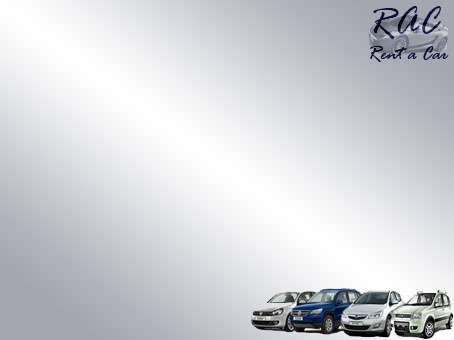
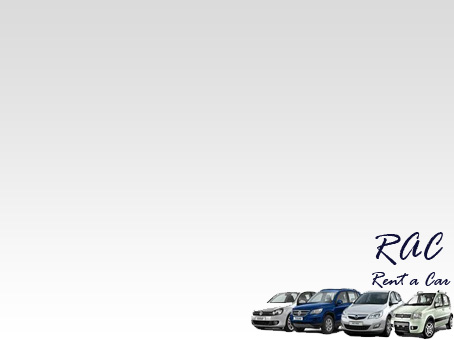
cambios varios

diff --git a/AlquilerCoches/AlquilerCoches/GestionClientes.Designer.cs b/AlquilerCoches/AlquilerCoches/GestionClientes.Designer.cs
@@ -62,7 +62,7 @@
             // 
             this.pictureBox1.BackgroundImage = global::AlquilerCoches.Properties.Resources.Desconocido;
             this.pictureBox1.BackgroundImageLayout = System.Windows.Forms.ImageLayout.Stretch;
-            this.pictureBox1.Location = new System.Drawing.Point(444, 12);
+            this.pictureBox1.Location = new System.Drawing.Point(591, 12);
             this.pictureBox1.Name = "pictureBox1";
             this.pictureBox1.Size = new System.Drawing.Size(89, 110);
             this.pictureBox1.TabIndex = 45;
@@ -70,7 +70,7 @@
             // 
             // TGroupBoxCliente
             // 
-            this.TGroupBoxCliente.BackColor = System.Drawing.SystemColors.Control;
+            this.TGroupBoxCliente.BackColor = System.Drawing.SystemColors.ControlLight;
             this.TGroupBoxCliente.Controls.Add(this.TLabelVehiculosAlquiler);
             this.TGroupBoxCliente.Controls.Add(this.listBoxCoches);
             this.TGroupBoxCliente.Controls.Add(this.TLabelSexo);
@@ -94,7 +94,7 @@
             this.TGroupBoxCliente.Controls.Add(this.TLabelDNI);
             this.TGroupBoxCliente.Location = new System.Drawing.Point(12, 12);
             this.TGroupBoxCliente.Name = "TGroupBoxCliente";
-            this.TGroupBoxCliente.Size = new System.Drawing.Size(341, 390);
+            this.TGroupBoxCliente.Size = new System.Drawing.Size(524, 297);
             this.TGroupBoxCliente.TabIndex = 46;
             this.TGroupBoxCliente.TabStop = false;
             this.TGroupBoxCliente.Text = "Datos Cliente";
@@ -102,7 +102,7 @@
             // TLabelVehiculosAlquiler
             // 
             this.TLabelVehiculosAlquiler.AutoSize = true;
-            this.TLabelVehiculosAlquiler.Location = new System.Drawing.Point(11, 263);
+            this.TLabelVehiculosAlquiler.Location = new System.Drawing.Point(230, 50);
             this.TLabelVehiculosAlquiler.Name = "TLabelVehiculosAlquiler";
             this.TLabelVehiculosAlquiler.Size = new System.Drawing.Size(104, 13);
             this.TLabelVehiculosAlquiler.TabIndex = 64;
@@ -112,7 +112,7 @@
             // listBoxCoches
             // 
             this.listBoxCoches.FormattingEnabled = true;
-            this.listBoxCoches.Location = new System.Drawing.Point(136, 263);
+            this.listBoxCoches.Location = new System.Drawing.Point(340, 47);
             this.listBoxCoches.Name = "listBoxCoches";
             this.listBoxCoches.Size = new System.Drawing.Size(158, 121);
             this.listBoxCoches.TabIndex = 49;
@@ -120,7 +120,7 @@
             // TLabelSexo
             // 
             this.TLabelSexo.AutoSize = true;
-            this.TLabelSexo.Location = new System.Drawing.Point(37, 228);
+            this.TLabelSexo.Location = new System.Drawing.Point(37, 242);
             this.TLabelSexo.Name = "TLabelSexo";
             this.TLabelSexo.Size = new System.Drawing.Size(31, 13);
             this.TLabelSexo.TabIndex = 63;
@@ -129,7 +129,7 @@
             // TRadioButtonM
             // 
             this.TRadioButtonM.AutoSize = true;
-            this.TRadioButtonM.Location = new System.Drawing.Point(136, 224);
+            this.TRadioButtonM.Location = new System.Drawing.Point(136, 238);
             this.TRadioButtonM.Name = "TRadioButtonM";
             this.TRadioButtonM.Size = new System.Drawing.Size(34, 17);
             this.TRadioButtonM.TabIndex = 62;
@@ -140,7 +140,7 @@
             // TRadioButtonH
             // 
             this.TRadioButtonH.AutoSize = true;
-            this.TRadioButtonH.Location = new System.Drawing.Point(87, 224);
+            this.TRadioButtonH.Location = new System.Drawing.Point(87, 238);
             this.TRadioButtonH.Name = "TRadioButtonH";
             this.TRadioButtonH.Size = new System.Drawing.Size(33, 17);
             this.TRadioButtonH.TabIndex = 61;
@@ -150,7 +150,7 @@
             // 
             // TTextBoxDireccion
             // 
-            this.TTextBoxDireccion.Location = new System.Drawing.Point(87, 144);
+            this.TTextBoxDireccion.Location = new System.Drawing.Point(87, 158);
             this.TTextBoxDireccion.Name = "TTextBoxDireccion";
             this.TTextBoxDireccion.Size = new System.Drawing.Size(108, 20);
             this.TTextBoxDireccion.TabIndex = 60;
@@ -158,7 +158,7 @@
             // TLabelDireccion
             // 
             this.TLabelDireccion.AutoSize = true;
-            this.TLabelDireccion.Location = new System.Drawing.Point(20, 151);
+            this.TLabelDireccion.Location = new System.Drawing.Point(20, 165);
             this.TLabelDireccion.Name = "TLabelDireccion";
             this.TLabelDireccion.Size = new System.Drawing.Size(52, 13);
             this.TLabelDireccion.TabIndex = 59;
@@ -166,7 +166,7 @@
             // 
             // TTextBoxEmail
             // 
-            this.TTextBoxEmail.Location = new System.Drawing.Point(87, 123);
+            this.TTextBoxEmail.Location = new System.Drawing.Point(87, 137);
             this.TTextBoxEmail.Name = "TTextBoxEmail";
             this.TTextBoxEmail.Size = new System.Drawing.Size(108, 20);
             this.TTextBoxEmail.TabIndex = 58;
@@ -174,7 +174,7 @@
             // TLabelEmail
             // 
             this.TLabelEmail.AutoSize = true;
-            this.TLabelEmail.Location = new System.Drawing.Point(37, 130);
+            this.TLabelEmail.Location = new System.Drawing.Point(37, 144);
             this.TLabelEmail.Name = "TLabelEmail";
             this.TLabelEmail.Size = new System.Drawing.Size(32, 13);
             this.TLabelEmail.TabIndex = 57;
@@ -182,42 +182,42 @@
             // 
             // TTextBoxProvincia
             // 
-            this.TTextBoxProvincia.Location = new System.Drawing.Point(87, 188);
+            this.TTextBoxProvincia.Location = new System.Drawing.Point(87, 202);
             this.TTextBoxProvincia.Name = "TTextBoxProvincia";
             this.TTextBoxProvincia.Size = new System.Drawing.Size(108, 20);
             this.TTextBoxProvincia.TabIndex = 56;
             // 
             // TTextBoxCiudad
             // 
-            this.TTextBoxCiudad.Location = new System.Drawing.Point(87, 166);
+            this.TTextBoxCiudad.Location = new System.Drawing.Point(87, 180);
             this.TTextBoxCiudad.Name = "TTextBoxCiudad";
             this.TTextBoxCiudad.Size = new System.Drawing.Size(108, 20);
             this.TTextBoxCiudad.TabIndex = 55;
             // 
             // TTextBoxTelefono
             // 
-            this.TTextBoxTelefono.Location = new System.Drawing.Point(87, 100);
+            this.TTextBoxTelefono.Location = new System.Drawing.Point(87, 114);
             this.TTextBoxTelefono.Name = "TTextBoxTelefono";
             this.TTextBoxTelefono.Size = new System.Drawing.Size(108, 20);
             this.TTextBoxTelefono.TabIndex = 54;
             // 
             // TTextBoxApellidos
             // 
-            this.TTextBoxApellidos.Location = new System.Drawing.Point(87, 78);
+            this.TTextBoxApellidos.Location = new System.Drawing.Point(87, 92);
             this.TTextBoxApellidos.Name = "TTextBoxApellidos";
             this.TTextBoxApellidos.Size = new System.Drawing.Size(108, 20);
             this.TTextBoxApellidos.TabIndex = 53;
             // 
             // TTextBoxNombre
             // 
-            this.TTextBoxNombre.Location = new System.Drawing.Point(87, 56);
+            this.TTextBoxNombre.Location = new System.Drawing.Point(87, 70);
             this.TTextBoxNombre.Name = "TTextBoxNombre";
             this.TTextBoxNombre.Size = new System.Drawing.Size(70, 20);
             this.TTextBoxNombre.TabIndex = 52;
             // 
             // TTextBoxDNI
             // 
-            this.TTextBoxDNI.Location = new System.Drawing.Point(87, 33);
+            this.TTextBoxDNI.Location = new System.Drawing.Point(87, 47);
             this.TTextBoxDNI.Name = "TTextBoxDNI";
             this.TTextBoxDNI.Size = new System.Drawing.Size(70, 20);
             this.TTextBoxDNI.TabIndex = 51;
@@ -225,7 +225,7 @@
             // TLabelProvincia
             // 
             this.TLabelProvincia.AutoSize = true;
-            this.TLabelProvincia.Location = new System.Drawing.Point(20, 195);
+            this.TLabelProvincia.Location = new System.Drawing.Point(20, 209);
             this.TLabelProvincia.Name = "TLabelProvincia";
             this.TLabelProvincia.Size = new System.Drawing.Size(51, 13);
             this.TLabelProvincia.TabIndex = 50;
@@ -234,7 +234,7 @@
             // TLabelCiudad
             // 
             this.TLabelCiudad.AutoSize = true;
-            this.TLabelCiudad.Location = new System.Drawing.Point(29, 173);
+            this.TLabelCiudad.Location = new System.Drawing.Point(29, 187);
             this.TLabelCiudad.Name = "TLabelCiudad";
             this.TLabelCiudad.Size = new System.Drawing.Size(40, 13);
             this.TLabelCiudad.TabIndex = 49;
@@ -243,7 +243,7 @@
             // TLabelTelefono1
             // 
             this.TLabelTelefono1.AutoSize = true;
-            this.TLabelTelefono1.Location = new System.Drawing.Point(11, 107);
+            this.TLabelTelefono1.Location = new System.Drawing.Point(11, 121);
             this.TLabelTelefono1.Name = "TLabelTelefono1";
             this.TLabelTelefono1.Size = new System.Drawing.Size(58, 13);
             this.TLabelTelefono1.TabIndex = 48;
@@ -252,7 +252,7 @@
             // TLabelApellidos
             // 
             this.TLabelApellidos.AutoSize = true;
-            this.TLabelApellidos.Location = new System.Drawing.Point(20, 85);
+            this.TLabelApellidos.Location = new System.Drawing.Point(20, 99);
             this.TLabelApellidos.Name = "TLabelApellidos";
             this.TLabelApellidos.Size = new System.Drawing.Size(49, 13);
             this.TLabelApellidos.TabIndex = 47;
@@ -261,7 +261,7 @@
             // TLabelNombre
             // 
             this.TLabelNombre.AutoSize = true;
-            this.TLabelNombre.Location = new System.Drawing.Point(25, 63);
+            this.TLabelNombre.Location = new System.Drawing.Point(25, 77);
             this.TLabelNombre.Name = "TLabelNombre";
             this.TLabelNombre.Size = new System.Drawing.Size(44, 13);
             this.TLabelNombre.TabIndex = 46;
@@ -270,7 +270,7 @@
             // TLabelDNI
             // 
             this.TLabelDNI.AutoSize = true;
-            this.TLabelDNI.Location = new System.Drawing.Point(43, 40);
+            this.TLabelDNI.Location = new System.Drawing.Point(43, 54);
             this.TLabelDNI.Name = "TLabelDNI";
             this.TLabelDNI.Size = new System.Drawing.Size(26, 13);
             this.TLabelDNI.TabIndex = 45;
@@ -278,7 +278,7 @@
             // 
             // TButtonFoto
             // 
-            this.TButtonFoto.Location = new System.Drawing.Point(459, 128);
+            this.TButtonFoto.Location = new System.Drawing.Point(606, 128);
             this.TButtonFoto.Name = "TButtonFoto";
             this.TButtonFoto.Size = new System.Drawing.Size(56, 23);
             this.TButtonFoto.TabIndex = 47;
@@ -288,7 +288,7 @@
             // 
             // TButtonAceptar
             // 
-            this.TButtonAceptar.Location = new System.Drawing.Point(440, 349);
+            this.TButtonAceptar.Location = new System.Drawing.Point(18, 353);
             this.TButtonAceptar.Name = "TButtonAceptar";
             this.TButtonAceptar.Size = new System.Drawing.Size(75, 23);
             this.TButtonAceptar.TabIndex = 48;
@@ -297,7 +297,7 @@
             // 
             // TButtonBuscar
             // 
-            this.TButtonBuscar.Location = new System.Drawing.Point(521, 349);
+            this.TButtonBuscar.Location = new System.Drawing.Point(99, 353);
             this.TButtonBuscar.Name = "TButtonBuscar";
             this.TButtonBuscar.Size = new System.Drawing.Size(75, 23);
             this.TButtonBuscar.TabIndex = 49;

diff --git a/AlquilerCoches/AlquilerCoches/GestionPersonal.Designer.cs b/AlquilerCoches/AlquilerCoches/GestionPersonal.Designer.cs
@@ -42,7 +42,6 @@
             this.TTextBoxCiudad = new System.Windows.Forms.TextBox();
             this.TTextBoxProvincia = new System.Windows.Forms.TextBox();
             this.TTextBoxPuestoAc = new System.Windows.Forms.TextBox();
-            this.button1 = new System.Windows.Forms.Button();
             this.button2 = new System.Windows.Forms.Button();
             this.richTextBox1 = new System.Windows.Forms.RichTextBox();
             this.TLabelOtrosPuestos = new System.Windows.Forms.Label();
@@ -53,6 +52,7 @@
             this.TLabelEmail = new System.Windows.Forms.Label();
             this.textBox2 = new System.Windows.Forms.TextBox();
             this.TLabelDireccion = new System.Windows.Forms.Label();
+            this.button1 = new System.Windows.Forms.Button();
             ((System.ComponentModel.ISupportInitialize)(this.pictureBox1)).BeginInit();
             this.SuspendLayout();
             // 
@@ -171,18 +171,9 @@
             this.TTextBoxPuestoAc.Size = new System.Drawing.Size(108, 20);
             this.TTextBoxPuestoAc.TabIndex = 14;
             // 
-            // button1
-            // 
-            this.button1.Location = new System.Drawing.Point(404, 331);
-            this.button1.Name = "button1";
-            this.button1.Size = new System.Drawing.Size(84, 25);
-            this.button1.TabIndex = 15;
-            this.button1.Text = "Horarios";
-            this.button1.UseVisualStyleBackColor = true;
-            // 
             // button2
             // 
-            this.button2.Location = new System.Drawing.Point(510, 331);
+            this.button2.Location = new System.Drawing.Point(120, 331);
             this.button2.Name = "button2";
             this.button2.Size = new System.Drawing.Size(88, 25);
             this.button2.TabIndex = 16;
@@ -235,7 +226,7 @@
             // 
             // TButtonGuardarPersonal
             // 
-            this.TButtonGuardarPersonal.Location = new System.Drawing.Point(12, 332);
+            this.TButtonGuardarPersonal.Location = new System.Drawing.Point(241, 332);
             this.TButtonGuardarPersonal.Name = "TButtonGuardarPersonal";
             this.TButtonGuardarPersonal.Size = new System.Drawing.Size(77, 24);
             this.TButtonGuardarPersonal.TabIndex = 24;
@@ -266,6 +257,15 @@
             this.TLabelDireccion.Size = new System.Drawing.Size(52, 13);
             this.TLabelDireccion.TabIndex = 25;
             this.TLabelDireccion.Text = "Direccion";
+            // 
+            // button1
+            // 
+            this.button1.Location = new System.Drawing.Point(14, 331);
+            this.button1.Name = "button1";
+            this.button1.Size = new System.Drawing.Size(84, 25);
+            this.button1.TabIndex = 15;
+            this.button1.Text = "Horarios";
+            this.button1.UseVisualStyleBackColor = true;
             // 
             // GestionPersonal
             // 
@@ -325,7 +325,6 @@
         private System.Windows.Forms.TextBox TTextBoxCiudad;
         private System.Windows.Forms.TextBox TTextBoxProvincia;
         private System.Windows.Forms.TextBox TTextBoxPuestoAc;
-        private System.Windows.Forms.Button button1;
         private System.Windows.Forms.Button button2;
         private System.Windows.Forms.RichTextBox richTextBox1;
         private System.Windows.Forms.Label TLabelOtrosPuestos;
@@ -335,5 +334,6 @@
         private System.Windows.Forms.Label TLabelEmail;
         private System.Windows.Forms.TextBox textBox2;
         private System.Windows.Forms.Label TLabelDireccion;
+        private System.Windows.Forms.Button button1;
     }
 }

diff --git a/AlquilerCoches/AlquilerCoches/BuscarPedidos.Designer.cs b/AlquilerCoches/AlquilerCoches/BuscarPedidos.Designer.cs
@@ -38,13 +38,14 @@
             // 
             // groupBox1
             // 
+            this.groupBox1.BackColor = System.Drawing.Color.Gainsboro;
             this.groupBox1.Controls.Add(this.label1);
             this.groupBox1.Controls.Add(this.textBox1);
             this.groupBox1.Controls.Add(this.radioButton2);
             this.groupBox1.Controls.Add(this.radioButton1);
             this.groupBox1.Location = new System.Drawing.Point(31, 21);
             this.groupBox1.Name = "groupBox1";
-            this.groupBox1.Size = new System.Drawing.Size(460, 96);
+            this.groupBox1.Size = new System.Drawing.Size(569, 98);
             this.groupBox1.TabIndex = 0;
             this.groupBox1.TabStop = false;
             this.groupBox1.Text = "Criterios de búsqueda ";
@@ -92,6 +93,7 @@
             // 
             this.AutoScaleDimensions = new System.Drawing.SizeF(6F, 13F);
             this.AutoScaleMode = System.Windows.Forms.AutoScaleMode.Font;
+            this.BackColor = System.Drawing.SystemColors.ControlLightLight;
             this.BackgroundImage = global::AlquilerCoches.Properties.Resources.rentacar;
             this.BackgroundImageLayout = System.Windows.Forms.ImageLayout.Stretch;
             this.ClientSize = new System.Drawing.Size(668, 474);

diff --git a/AlquilerCoches/AlquilerCoches/GestionPersonalBuscar.Designer.cs b/AlquilerCoches/AlquilerCoches/GestionPersonalBuscar.Designer.cs
@@ -124,6 +124,7 @@
             // TLabelDNI
             // 
             this.TLabelDNI.AutoSize = true;
+            this.TLabelDNI.BackColor = System.Drawing.Color.Gainsboro;
             this.TLabelDNI.Location = new System.Drawing.Point(51, 290);
             this.TLabelDNI.Name = "TLabelDNI";
             this.TLabelDNI.Size = new System.Drawing.Size(26, 13);
@@ -170,6 +171,8 @@
             // 
             this.AutoScaleDimensions = new System.Drawing.SizeF(6F, 13F);
             this.AutoScaleMode = System.Windows.Forms.AutoScaleMode.Font;
+            this.BackgroundImage = global::AlquilerCoches.Properties.Resources.rentacar;
+            this.BackgroundImageLayout = System.Windows.Forms.ImageLayout.Stretch;
             this.ClientSize = new System.Drawing.Size(662, 447);
             this.Controls.Add(this.TButtonEliminar);
             this.Controls.Add(this.TButtonBuscar);
